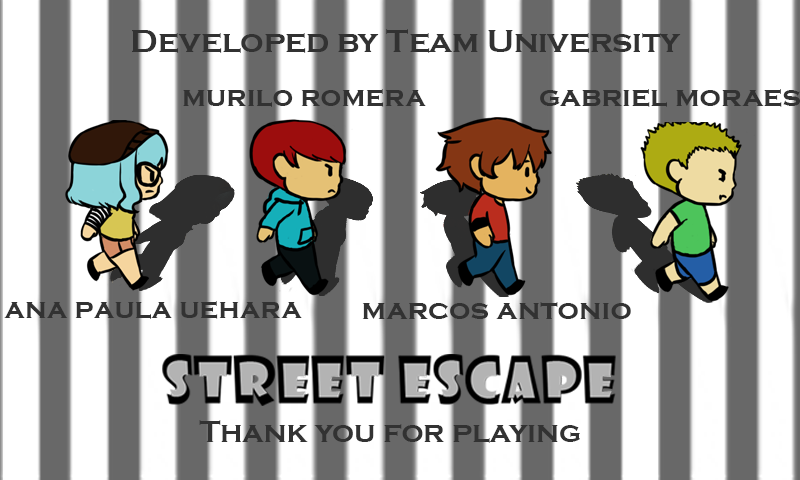
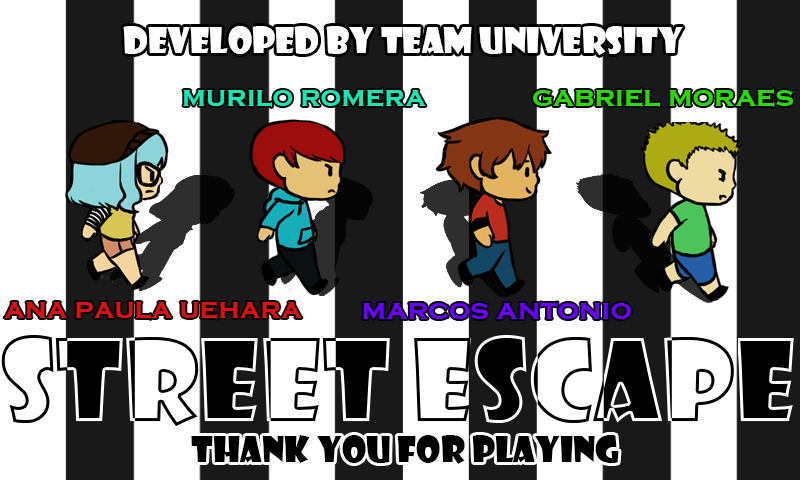
Ajustes no letreiro da introdução e troca de telas
- Marcos refez as telas de menus;
- Trocadas as fontes bitmap da introdução.

diff --git a/Street Escape (1.3)/core/src/com/tu/streetescape/MainGame.java b/Street Escape (1.3)/core/src/com/tu/streetescape/MainGame.java
@@ -67,7 +67,7 @@ public class MainGame extends Game {
 		camera = new OrthographicCamera();
 		renderer = new ShapeRenderer();
 		transeunte = new Transeunte(this);
-		GUIFont = new BitmapFont(Gdx.files.internal("Fontes/GUIFont.fnt"));
+		GUIFont = new BitmapFont(Gdx.files.internal("Fontes/GUIFont2.fnt"));
 		gameoverfont = new BitmapFont(Gdx.files.internal("Fontes/gameover.fnt"));
 		
 		//Telas
